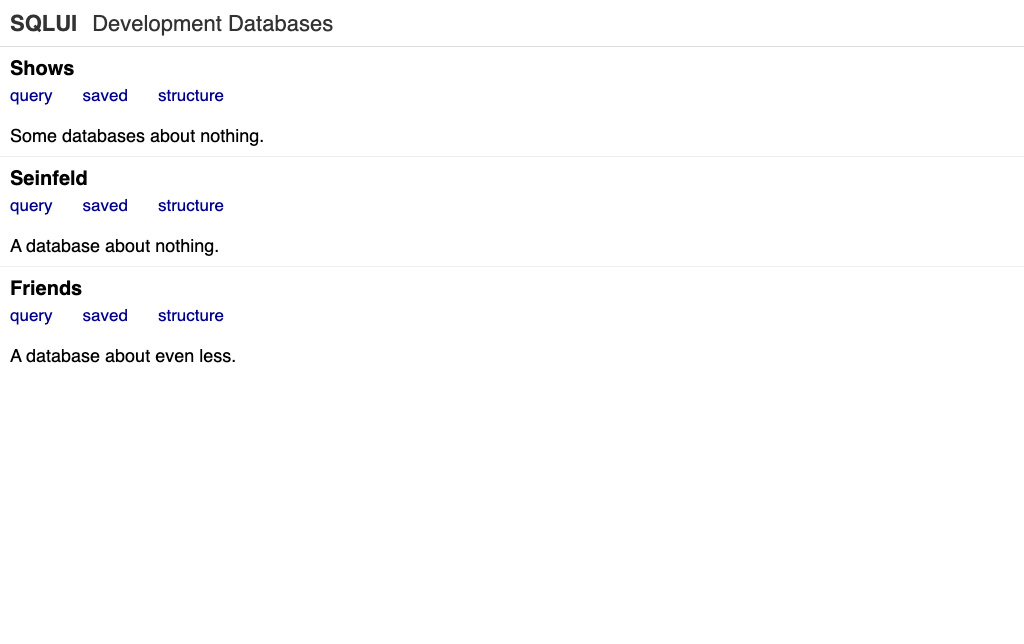
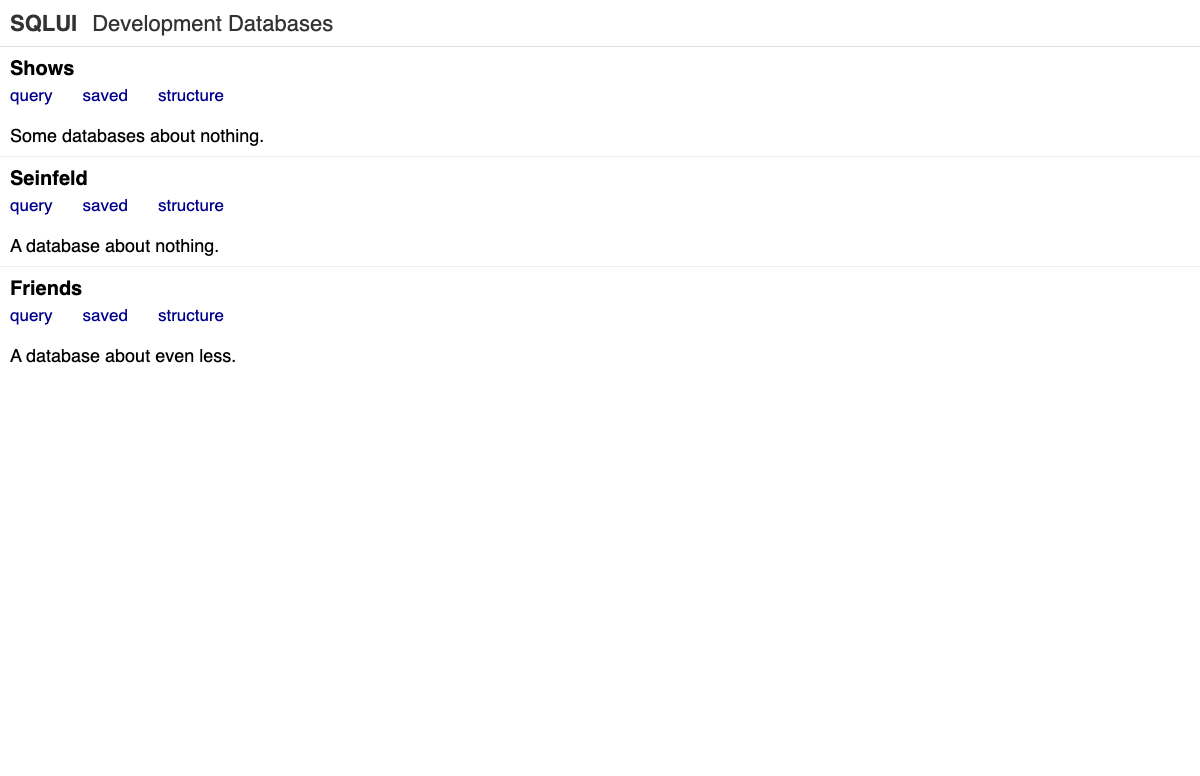
Generate screenshots.

Changed region(s): [[0.0, 0.0, 0.3438, 0.4969], [0.0, 0.528, 0.2188, 0.5901]]

diff --git a/screenshots/graph.rb b/screenshots/graph.rb
@@ -7,13 +7,9 @@ describe 'graph' do
   let(:driver) { start_session }
   let(:wait) { Selenium::WebDriver::Wait.new(timeout: 5) }
 
-  before do
-    driver.get(url('/sqlui'))
-    driver.manage.window.resize_to(1024, 768)
-  end
-
   it 'is screenshotted' do
     driver.get(url('/sqlui/seinfeld/graph?sql=select+id%2C+id+from+characters%3B&selection=29'))
+    driver.manage.window.resize_to(1200, 900)
     wait_until_editor(wait)
     driver.find_element(id: 'submit-button-current').click
     driver.save_screenshot('screenshots/graph.png')

diff --git a/screenshots/saved.rb b/screenshots/saved.rb
@@ -31,9 +31,9 @@ describe 'saved' do
 
   it 'is screenshotted' do
     driver.get(url('/sqlui/friends/saved'))
-    driver.manage.window.resize_to(1024, 768)
+    driver.manage.window.resize_to(1200, 900)
     wait.until do
-      elements = driver.find_elements(css: '#saved-box > .saved-list-item > h2')
+      elements = driver.find_elements(css: '#saved-box > .saved-list-item > .saved-file-header > .saved-name')
       elements if elements.size == 2 && elements[0].displayed?
     end
     driver.save_screenshot('screenshots/saved.png')

diff --git a/screenshots/databases.rb b/screenshots/databases.rb
@@ -7,13 +7,9 @@ describe 'databases' do
   let(:driver) { start_session }
   let(:wait) { Selenium::WebDriver::Wait.new(timeout: 5) }
 
-  before do
-    driver.get(url('/sqlui'))
-    driver.manage.window.resize_to(1024, 768)
-  end
-
   it 'is screenshotted' do
     driver.get(url('/sqlui'))
+    driver.manage.window.resize_to(1200, 900)
     wait.until do
       elements = driver.find_elements(css: '.database')
       elements if elements&.size == 3 && elements.all?(&:displayed?)

diff --git a/screenshots/structure.rb b/screenshots/structure.rb
@@ -9,7 +9,7 @@ describe 'structure' do
 
   it 'is screenshotted' do
     driver.get(url('/sqlui/seinfeld/structure'))
-    driver.manage.window.resize_to(1024, 768)
+    driver.manage.window.resize_to(1200, 900)
     wait_until_displayed(wait, id: 'columns')
     driver.save_screenshot('screenshots/structure.png')
   end

diff --git a/screenshots/help.rb b/screenshots/help.rb
@@ -9,7 +9,7 @@ describe 'help' do
 
   it 'is screenshotted' do
     driver.get(url('/sqlui/seinfeld/help'))
-    driver.manage.window.resize_to(1024, 768)
+    driver.manage.window.resize_to(1200, 900)
     wait_until_displayed(wait, id: 'help-box')
     driver.save_screenshot('screenshots/help.png')
   end

diff --git a/screenshots/query.rb b/screenshots/query.rb
@@ -9,7 +9,7 @@ describe 'query' do
 
   it 'is screenshotted' do
     driver.get(url('/sqlui/seinfeld/query'))
-    driver.manage.window.resize_to(1024, 768)
+    driver.manage.window.resize_to(1200, 900)
     wait_until_editor(wait)
     driver.save_screenshot('screenshots/query.png')
   end
